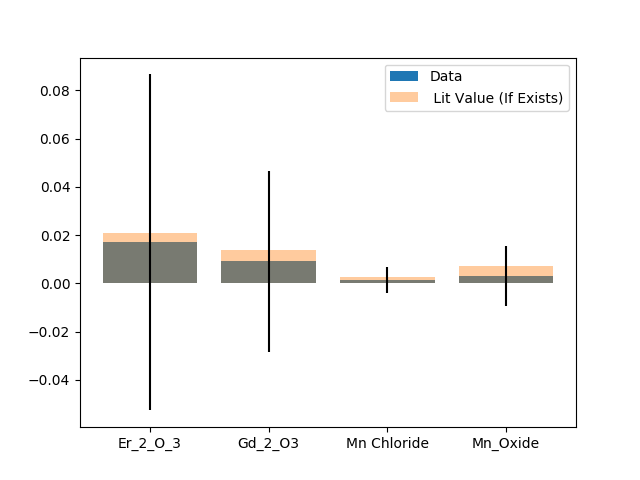
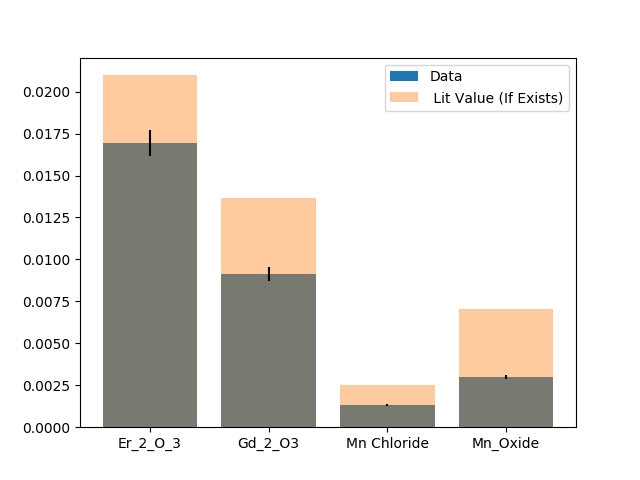
updated to fix overly large error bars on cobalt wire

diff --git a/lab2/analysis.py b/lab2/analysis.py
@@ -39,8 +39,8 @@ b_cal_length = 10.00 / 1000
 
 # magnet masses from calibration with and without the current turned on
 # you can apply the error with a lambda function or uarray (see a few lines down)
-b_cal_scale_no_current = df['scale_no_mag_si'].dropna().apply(lambda x: ufloat(x, .001))
-b_cal_scale_with_current = df['scale_with_mag_si'].dropna().apply(lambda x: ufloat(x, .001))
+b_cal_scale_no_current = df['scale_no_mag_si'].dropna().apply(lambda x: ufloat(x, .00001))
+b_cal_scale_with_current = df['scale_with_mag_si'].dropna().apply(lambda x: ufloat(x, .00001))
 
 
 
@@ -120,6 +120,16 @@ lit_xm = df['lit_xm']
 area = \
         df['area_param_1'].apply(lambda x: ufloat(x, .0001)) * \
         df['area_param_2'].apply(lambda x: ufloat(x, .0001))
+
+
+'''
+the area uncertainty for cobalt is very close to zero, and we are given the
+dimesions of the cobalt wire - so I will assume that the dimensions we are
+given are exact. Without this assumption, it's really easy to hit an error bar
+of 80,000
+'''
+area[4] = area[4].n
+
 height = df['height_sample'].apply(lambda x: ufloat(x, .0001)) 
 real_mass = df['sample_mass_si'].apply(lambda x: ufloat(x, .000001)) 
 volume = area * height
@@ -146,7 +156,6 @@ def xm(mass_difference, area):
 sample_xm = xm(sample_mass_difference, area)
 sample_xm_values = sample_xm.apply(lambda x: x.n)
 sample_xm_err = sample_xm.apply(lambda x: x.s)
-
 
 ################################
 # PLOTTING DATA
@@ -198,3 +207,4 @@ plt.bar(name[[4]], sample_xm_values[[4]], yerr=sample_xm_err[[4]], label='Data')
 plt.bar(name[[4]], lit_xm[[4]], label=' Lit Value (If Exists)', alpha=.4)
 plt.legend()
 plt.savefig('figures/figure7')
+
